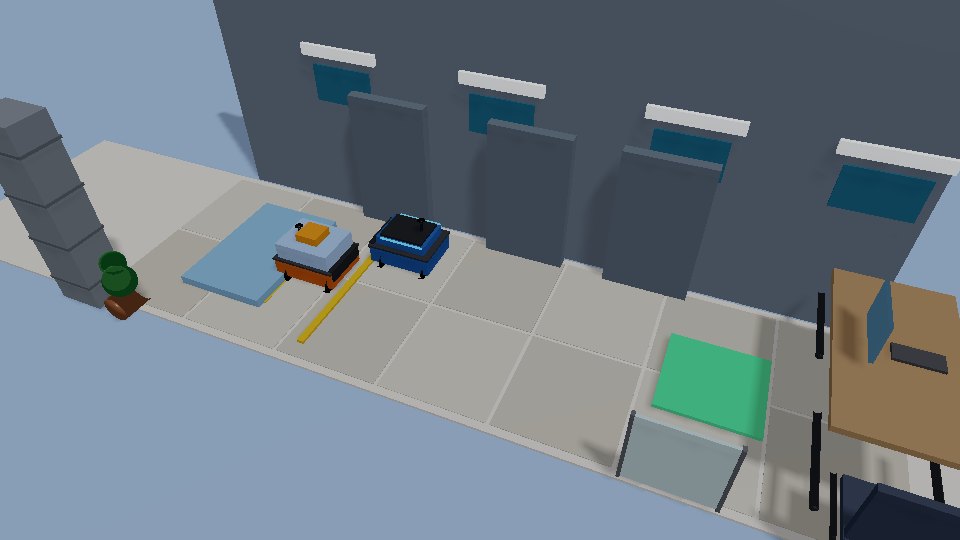
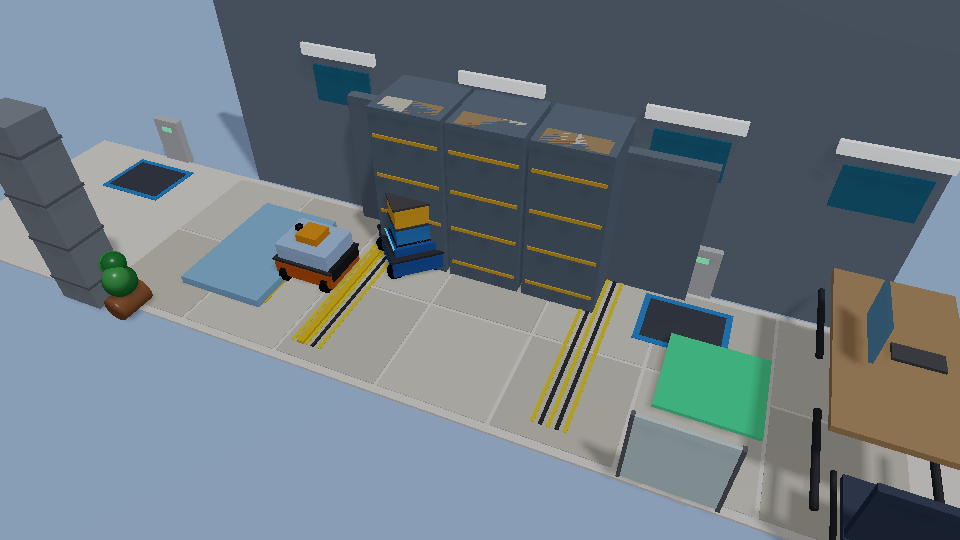
fix(showcase): show why the Office AGV waits: a single-lane section, charging bays, and a heading that follows the lane (#359)

diff --git a/examples/90_showcase_captures/office.rs b/examples/90_showcase_captures/office.rs
@@ -7,7 +7,7 @@ use super::media::{
 use anyhow::{Context, Result};
 use rne_ai::{
     build_visual_render_scene, BehaviorScenario, OfficeAgvDeskPlaceObservation,
-    OfficeAgvDeskPlaceScenario,
+    OfficeAgvDeskPlaceScenario, OfficeAgvSharedAisleCourse,
 };
 use rne_math::{Quat, Vec3};
 use rne_physics::hash_physics_state;
@@ -505,9 +505,24 @@ pub(crate) fn render_scene(
             observation.base_z_m,
             observation.base_yaw_rad,
         ),
-        // The oncoming AGV travels in the opposite lane and only ever drives
-        // toward -X, so a fixed heading of PI is the direction it is going.
-        (other_agv_x_m, other_agv_z_m, std::f64::consts::PI),
+        (other_agv_x_m, other_agv_z_m, oncoming_yaw(other_agv_x_m)),
+    );
+    // The shared renderer's thin desk shelving stands where the single-lane
+    // section's deep units and the far charging bay go.
+    scene.items.retain(|item| {
+        !matches!(
+            item.shape,
+            VisualShape::Box { size_m }
+                if (size_m.x - 0.72).abs() < 1e-6 && (size_m.y - 1.3).abs() < 1e-6
+        )
+    });
+    push_single_lane_section(&mut scene);
+    push_charging_bays(&mut scene);
+    push_totes(
+        &mut scene,
+        other_agv_x_m,
+        other_agv_z_m,
+        oncoming_yaw(other_agv_x_m),
     );
     let (cargo_x_m, cargo_z_m) = scenario.cargo_translation_m();
     push_box(
@@ -521,6 +536,145 @@ pub(crate) fn render_scene(
         },
     );
     scene
+}
+
+/// Heading of the oncoming AGV at `x`: it drives toward -X along its lane,
+/// which bends onto the centre line through the single-lane section, so it
+/// faces along the lane's slope there. (A fixed heading of PI had it sliding
+/// sideways through the bend.)
+fn oncoming_yaw(x_m: f64) -> f64 {
+    let course = OfficeAgvSharedAisleCourse::default();
+    let step = 0.05;
+    let dx = -2.0 * step;
+    let dz = course.other_lane_z_m(x_m - step) - course.other_lane_z_m(x_m + step);
+    // Yaw about +Y turns the AGV's +X toward (cos yaw, -sin yaw) in (x, z).
+    (-dz).atan2(dx)
+}
+
+/// The single-lane section the scenario enforces (x 3.5 to 5.5 m), drawn as
+/// deep shelving units that narrow the far side of the aisle to one lane,
+/// with hatched floor at both ends. They are drawn only: the scenario's rule,
+/// not a collider, is what makes the oncoming AGV take the centre line there
+/// and the delivery AGV wait at the yield line.
+fn push_single_lane_section(scene: &mut RenderScene) {
+    let course = OfficeAgvSharedAisleCourse::default();
+    let (x0, x1) = (course.shared_min_x_m, course.shared_max_x_m);
+    let depth_m = 0.62;
+    let back_z = -1.04;
+    let carcass = [0.30, 0.36, 0.44, 1.0];
+    let units = 3;
+    let unit_m = (x1 - x0) / f64::from(units);
+    for unit in 0..units {
+        let x = x0 + (f64::from(unit) + 0.5) * unit_m;
+        push_box(
+            scene,
+            Vec3::new(x, 0.75, back_z + 0.5 * depth_m),
+            Vec3::new(unit_m - 0.04, 1.5, depth_m),
+            carcass,
+        );
+        for shelf in 0..4 {
+            let y = 0.18 + 0.36 * f64::from(shelf);
+            push_box(
+                scene,
+                Vec3::new(x, y, back_z + depth_m + 0.005),
+                Vec3::new(unit_m - 0.1, 0.03, 0.01),
+                [0.92, 0.62, 0.14, 1.0],
+            );
+            // Archive boxes on each shelf, facing the aisle.
+            for slot in 0..3 {
+                let bx = x - 0.5 * unit_m + 0.2 + f64::from(slot) * (unit_m - 0.4) / 2.0;
+                push_box(
+                    scene,
+                    Vec3::new(bx, y + 0.13, back_z + depth_m - 0.12),
+                    Vec3::new(0.24, 0.22, 0.2),
+                    if (unit + shelf + slot) % 3 == 0 {
+                        [0.85, 0.82, 0.74, 1.0]
+                    } else {
+                        [0.62, 0.48, 0.32, 1.0]
+                    },
+                );
+            }
+        }
+    }
+    // Hatched floor marking both ends of the section.
+    for x in [x0, x1] {
+        for stripe in 0..5 {
+            push_box(
+                scene,
+                Vec3::new(x + 0.06 * f64::from(stripe) - 0.12, 0.031, -0.1),
+                Vec3::new(0.03, 0.004, 1.8),
+                if stripe % 2 == 0 {
+                    [0.96, 0.78, 0.10, 1.0]
+                } else {
+                    [0.12, 0.12, 0.13, 1.0]
+                },
+            );
+        }
+    }
+}
+
+/// Charging bays at both ends of the oncoming AGV's run: it charges at the
+/// far bay until it departs and parks at the near one once clear.
+fn push_charging_bays(scene: &mut RenderScene) {
+    let course = OfficeAgvSharedAisleCourse::default();
+    for x in [course.other_start_x_m, course.other_clear_x_m] {
+        let z = course.other_lane_z_m(x);
+        push_box(
+            scene,
+            Vec3::new(x, 0.03, z),
+            Vec3::new(0.72, 0.006, 0.56),
+            [0.10, 0.45, 0.85, 1.0],
+        );
+        push_box(
+            scene,
+            Vec3::new(x, 0.032, z),
+            Vec3::new(0.62, 0.006, 0.46),
+            [0.16, 0.18, 0.22, 1.0],
+        );
+        push_box_material(
+            scene,
+            Vec3::new(x, 0.25, -1.02),
+            Vec3::new(0.3, 0.5, 0.08),
+            Quat::IDENTITY,
+            [0.85, 0.87, 0.9, 1.0],
+            PbrMaterial::new([0.85, 0.87, 0.9, 1.0], 0.35, 0.2, [0.0; 3]),
+        );
+        push_box_material(
+            scene,
+            Vec3::new(x, 0.4, -0.975),
+            Vec3::new(0.12, 0.05, 0.01),
+            Quat::IDENTITY,
+            [0.2, 0.95, 0.45, 1.0],
+            PbrMaterial::new([0.2, 0.95, 0.45, 1.0], 0.3, 0.0, [0.2, 0.95, 0.45]),
+        );
+    }
+}
+
+/// A stack of two lidded totes on the oncoming AGV's deck.
+fn push_totes(scene: &mut RenderScene, x_m: f64, z_m: f64, yaw: f64) {
+    let rotation = Quat::from_rotation_y(yaw);
+    for (level, color) in [
+        (0.0, [0.12, 0.42, 0.78, 1.0]),
+        (1.0, [0.95, 0.60, 0.10, 1.0]),
+    ] {
+        let centre = Vec3::new(x_m, 0.42 + 0.2 * level, z_m);
+        push_box_material(
+            scene,
+            centre,
+            Vec3::new(0.4, 0.18, 0.3),
+            rotation,
+            color,
+            PbrMaterial::new(color, 0.55, 0.0, [0.0; 3]),
+        );
+        push_box_material(
+            scene,
+            centre + Vec3::new(0.0, 0.1, 0.0),
+            Vec3::new(0.42, 0.02, 0.32),
+            rotation,
+            [0.2, 0.2, 0.22, 1.0],
+            PbrMaterial::new([0.2, 0.2, 0.22, 1.0], 0.5, 0.0, [0.0; 3]),
+        );
+    }
 }
 
 /// Renders the office corridor with the ego AGV and the second AGV at the given

diff --git a/CHANGELOG.md b/CHANGELOG.md
@@ -725,6 +725,14 @@ All notable changes to Robot Native Engine are documented in this file.
   same pick the elbow sits 13 cm below the shoulder. The keyposes, the
   contact-gated grasps, the relay drop and the placement are unchanged, and
   the capture is 70 frames instead of 38.
+- The Office AGV showcase gave no reason for its motion: the second AGV sat
+  beside the goal, slid sideways through the single-lane section with a fixed
+  heading, and parked by the pillar, while the delivery AGV stopped for no
+  visible cause. The single-lane section the scenario enforces is now drawn as
+  deep shelving narrowing the aisle, with hatched floor at both ends; the
+  second AGV has charging bays where it starts and stops, carries a tote
+  stack, and faces along its lane. The simulation is unchanged (same final
+  digest).
 
 - `Slam2d` recorded raw odometry as the measurement of every sequential edge,
   so each loop-closure re-optimization pulled the trajectory back toward its

diff --git a/README.md b/README.md
@@ -52,7 +52,7 @@ camera state; gates and regeneration commands are in
         <img src="docs/media/showcase-office.gif" alt="Office AGV yielding to an oncoming robot before delivering cargo to a desk" width="460">
       </picture>
       <br><b>Office AGV</b><br>
-      <sub>Shared-aisle yield, dock pickup, cargo transport, and desk placement without contact or early drop. <a href="docs/media/showcase-office.json">metadata</a></sub>
+      <sub>Shelving narrows the aisle to one lane, so the delivery AGV waits at the yield line while the other AGV leaves its charging bay and comes through, then picks up at the dock and places the cargo on the desk: no contact, no early drop. The shelving marks the single-lane rule the scenario enforces; it is drawn, not collided with. <a href="docs/media/showcase-office.json">metadata</a></sub>
     </td>
     <td width="50%" align="center">
       <picture>

diff --git a/docs/README_SHOWCASE.md b/docs/README_SHOWCASE.md
@@ -30,7 +30,7 @@ observation state.
 | Real indoor 3DGS mobile manipulation | `house-mobile-manipulation.gif` / `.png` | 414,735 | 749,240 | 960 x 540 |
 | OpenArm v2 bimanual control | `showcase-openarm.gif` / `.png` | 1,983,788 | 56,163 | 960 x 540 |
 | Factory inspection | `showcase-factory.gif` / `.png` | 2,279,227 | 61,941 | 960 x 540 |
-| Office AGV delivery | `showcase-office.gif` / `.png` | 1,812,046 | 47,795 | 960 x 540 |
+| Office AGV delivery | `showcase-office.gif` / `.png` | 1,078,053 | 96,581 | 960 x 540 |
 | PLATEAU UAV RGB-D flight | `showcase-uav.gif` / `.png` | 4,329,461 | 439,474 | 960 x 540 |
 
 The current GIF total is **11,176,879 bytes**, below the 12,000,000-byte
